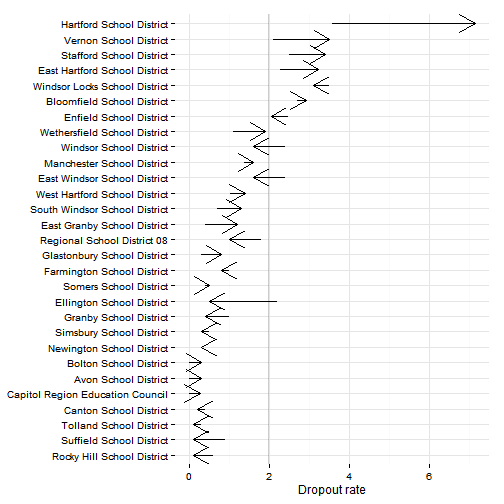
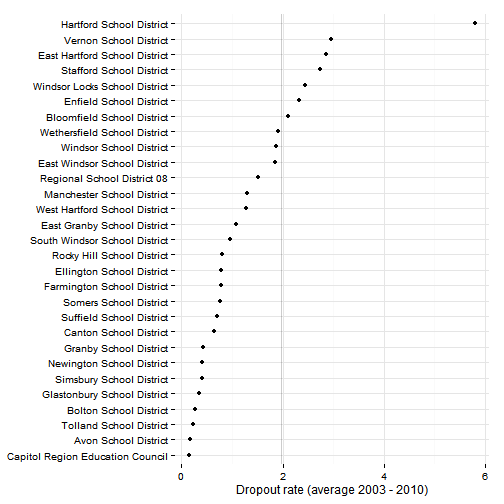
clean up before distribution

diff --git a/index.html b/index.html
@@ -66,7 +66,7 @@
 
 <p><img src="assets/fig/unnamed-chunk-2.png" alt="plot of chunk unnamed-chunk-2"> </p>
 
-<p>For all districts, Hartford has the highest rate, followed by Vernon. As with graduation rates, Stafford and Enfield are the two districts with above average dropout rates that are not Alliance Districts. The districts with the highest rates all saw increases over the period. </p>
+<p>For all districts, Hartford has the highest rate, followed by Vernon. (The graph displays the average rate from 2003 to 2010.) As with graduation rates, Stafford and Enfield are the two districts with above average dropout rates that are not Alliance Districts. The districts with the highest rates all saw increases over the period. </p>
 
 <p><img src="assets/fig/unnamed-chunk-3.png" alt="plot of chunk unnamed-chunk-3"> </p>
 

diff --git a/index.md b/index.md
@@ -47,8 +47,7 @@ Most of the increase occurred in the eight Alliance districts in the region.
 ![plot of chunk unnamed-chunk-2](assets/fig/unnamed-chunk-2.png) 
 
 
-For all districts, Hartford has the highest rate, followed by Vernon. As with graduation rates, Stafford and Enfield are the two districts with above average dropout rates that are not Alliance Districts. The districts with the highest rates all saw increases over the period. 
-
+For all districts, Hartford has the highest rate, followed by Vernon. (The graph displays the average rate from 2003 to 2010.) As with graduation rates, Stafford and Enfield are the two districts with above average dropout rates that are not Alliance Districts. The districts with the highest rates all saw increases over the period. 
 
 ![plot of chunk unnamed-chunk-3](assets/fig/unnamed-chunk-3.png) 
 
